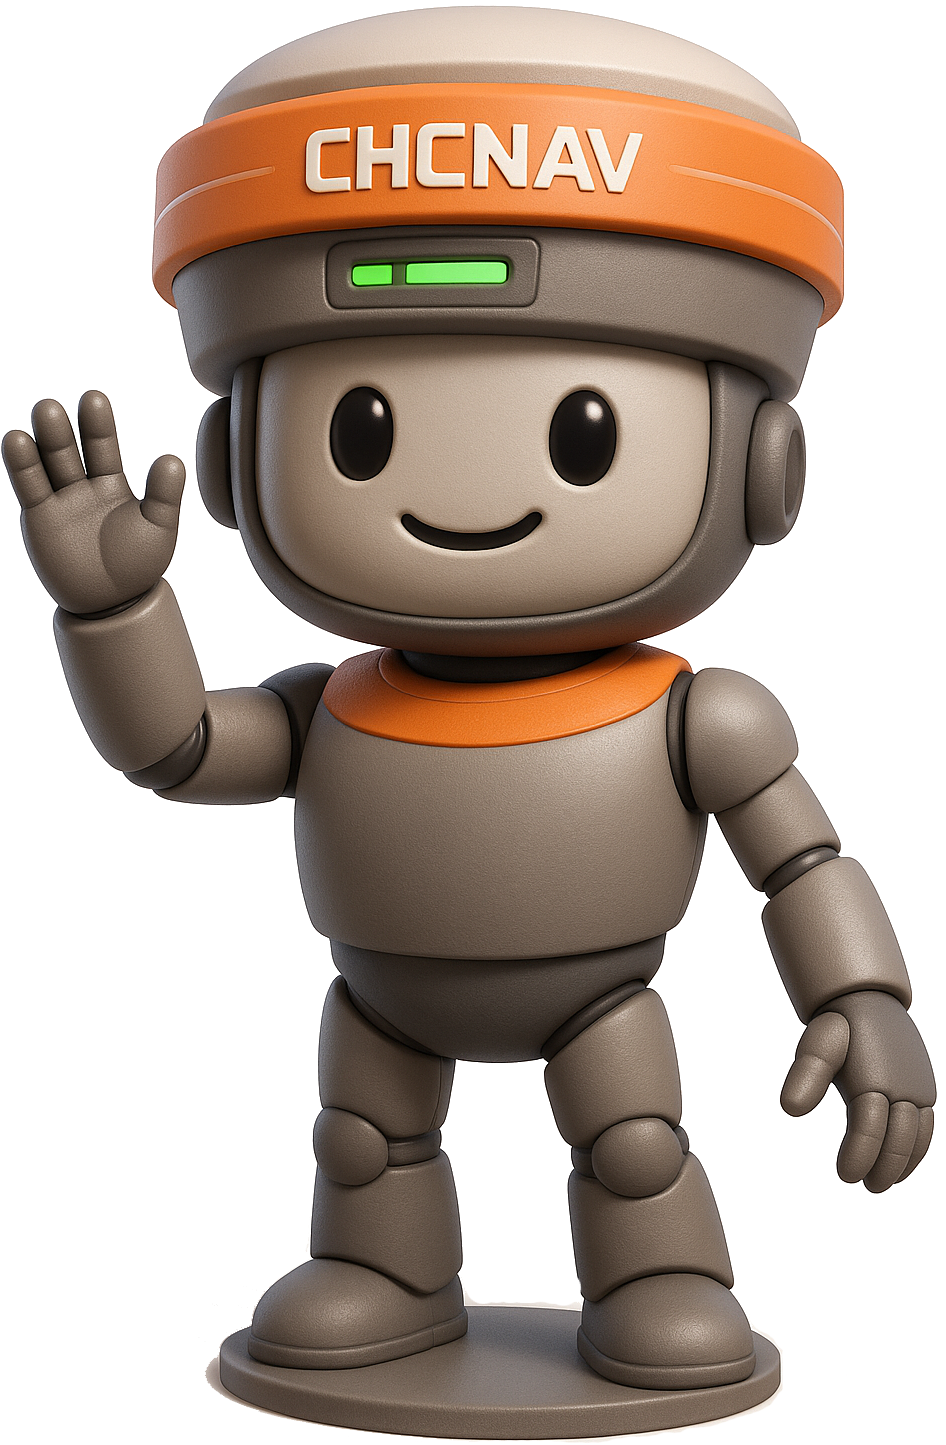
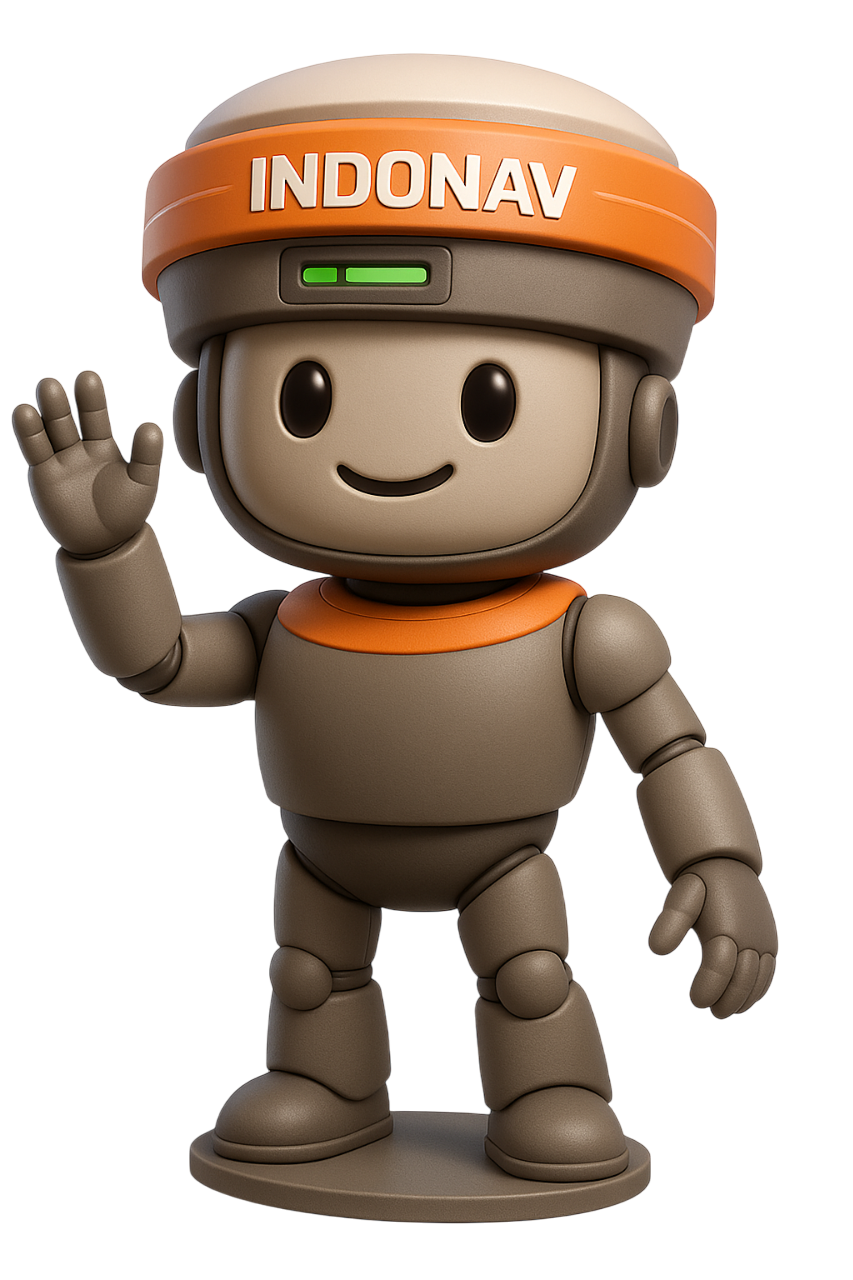
update actions: -Pemindahan tombol whatsapp disebelah tombol pemesanan -Halaman awal produk tampilkan kategori sebelum produk -Tulisan kepala robot diganti ke indonav -Slider partner diubah jadi 1

diff --git a/resources/css/app.css b/resources/css/app.css
@@ -39,13 +39,14 @@
   scrollbar-width: none; /* Hide scrollbar for Firefox */
 }
 
+.infinite-translate.reverse {
+  animation-direction: reverse;
+}
+
+
 .infinite-translate {
   animation: full-translate 20s linear infinite;
   display: flex;
-}
-
-.infinite-translate.reverse {
-  animation-direction: reverse;
 }
 
 .infinite-translate:hover {

diff --git a/resources/views/pages/index.blade.php b/resources/views/pages/index.blade.php
@@ -3,7 +3,6 @@
   $industry = App\Models\Industry::limit(5)->get();
   $products = App\Models\Product::orderByDesc('created_at')->limit(5)->get();
   $partners = App\Models\Partner::orderBy('order', 'asc')->get();
-  $chunks = $partners->chunk(5);
 @endphp
 
 @extends('layouts.app-v2', ['activePage' => 'home'])
@@ -119,32 +118,27 @@
     <div class="pb-10 md:pb-16 capitalize">
       <p class="text-3xl text-slate-800 font-medium text-center">our trusted partner</p>
     </div>
-    @foreach ($chunks as $index => $chunk)
-      @php
-        $shouldReverse = $index % 2 === 1;
-      @endphp
-      <div class="h-36 w-full overflow-hidden" id="slidable-content-{{ $index + 1 }}">
-        <div class="relative h-auto w-full">
-          <div class="absolute hidden md:block z-40 h-full w-24 bg-gradient-to-r from-white to-transparent"></div>
-          <ul class="infinite-translate flex h-full w-[200%] {{ $shouldReverse ? 'reverse' : '' }}">
-            @for ($i = 0; $i < 3; $i++)
-              @foreach ($chunk as $item)
-                <li
-                  class="flex w-1/6 md:w-1/6 flex-none items-center justify-center px-4 md:px-6 ring-inset hover:ring-2 ring-orange-600">
-                  <a href="{{ $item->url ?? '#' }}" target="_blank"
-                    class="flex items-center justify-center h-full w-full">
-                    <img class="h-10 sm:h-12 md:h-14 object-contain" src="{{ asset('storage/' . $item->image) }}"
-                      alt="{{ $item->title }}">
-                  </a>
-                </li>
-              @endforeach
-            @endfor
-          </ul>
-          <div class="absolute hidden md:block right-0 top-0 z-40 h-full w-24 bg-gradient-to-l from-white to-transparent">
-          </div>
+    <div class="h-36 w-full overflow-hidden" id="slidable-content">
+      <div class="relative h-auto w-full">
+        <div class="absolute hidden md:block z-40 h-full w-24 bg-gradient-to-r from-white to-transparent"></div>
+        <ul class="infinite-translate flex h-full w-[200%]">
+          @for ($i = 0; $i < 3  ; $i++)
+            {{-- Repeat to create seamless animation --}}
+            @foreach ($partners as $item)
+              <li
+                class="flex w-1/6 md:w-1/6 flex-none items-center justify-center px-4 md:px-6 ring-inset hover:ring-2 ring-orange-600">
+                <a href="{{ $item->url ?? '#' }}" target="_blank" class="flex items-center justify-center h-full w-full">
+                  <img class="h-10 sm:h-12 md:h-14 object-contain" src="{{ asset('storage/' . $item->image) }}"
+                    alt="{{ $i }} {{ $item->title }}">
+                </a>
+              </li>
+            @endforeach
+          @endfor
+        </ul>
+        <div class="absolute hidden md:block right-0 top-0 z-40 h-full w-24 bg-gradient-to-l from-white to-transparent">
         </div>
       </div>
-    @endforeach
+    </div>
   </div>
   <hr>
   <div class="max-w-screen-lg px-2 lg:px-0 mx-auto py-16 md:py-28 grid gap-8">
@@ -158,7 +152,8 @@
           <p class="text-lg font-medium text-slate-700">Ikuti kami</p>
         </div>
         <a href="{!! $sites['linkedin']?->url !!}" target="_blank">
-          <div class="py-1 border-b border-slate-300 hover:bg-orange-50 duration-200 flex w-full items-center justify-between cursor-pointer">
+          <div
+            class="py-1 border-b border-slate-300 hover:bg-orange-50 duration-200 flex w-full items-center justify-between cursor-pointer">
             <p class="text-base text-slate-700">Linkedin</p>
             <svg xmlns="http://www.w3.org/2000/svg" fill="none" viewBox="0 0 24 24" stroke-width="1.5"
               stroke="currentColor" class="w-4 h-4 text-orange-600">
@@ -167,7 +162,8 @@
           </div>
         </a>
         <a href="{!! $sites['instagram']?->url !!}" target="_blank">
-          <div class="py-1 border-b border-slate-300 hover:bg-orange-50 duration-200 flex w-full items-center justify-between cursor-pointer">
+          <div
+            class="py-1 border-b border-slate-300 hover:bg-orange-50 duration-200 flex w-full items-center justify-between cursor-pointer">
             <p class="text-base text-slate-700">Instagram</p>
             <svg xmlns="http://www.w3.org/2000/svg" fill="none" viewBox="0 0 24 24" stroke-width="1.5"
               stroke="currentColor" class="w-4 h-4 text-orange-600">

diff --git a/resources/views/pages/produk/index.blade.php b/resources/views/pages/produk/index.blade.php
@@ -25,39 +25,38 @@
 @section('content')
   <div class="bg-slate-100">
     <div class="max-w-screen-lg px-2 md:px-0 mx-auto py-16 space-y-4">
-      <p class="text-4xl text-orange-600 font-bold mb-10">Semua Produk</p>
-      <div class="border-y border-slate-300 py-3 mb-4 md:mb-6">
-        <ul class="flex flex-wrap gap-4 text-sm font-normal text-slate-700">
-          <li class="font-medium text-orange-600">Semua Produk</li>
-          @foreach ($industry as $item)
-            <li class="hover:text-orange-600"><a href="/produk/kategori/{{ $item->slug }}">
-                {{ $item->title }}</a></li>
-          @endforeach
-        </ul>
-      </div>
-      <div class="grid grid-cols-2 md:grid-cols-4 gap-4 md:gap-6">
-        @forelse ($products as $item)
-          <div class="bg-white grid justify-items-center gap-4 w-full p-4 hover:rounded-lg items-center">
-            <img src="{{ asset('storage/' . $item->image_product) }}" class="w-2/3" alt="{{ $item->title }}">
-            <p class="text-lg font-semibold tracking-wide text-slate-700 line-clamp-2">{{ $item->title }}</p>
-            <p class="text-base font-normal tracking-wide text-slate-600 text-center line-clamp-2">{{ $item->description }}</p>
-            <a href="/produk/{{ $item->slug }}"
-              class="w-fit border border-orange-600 text-orange-600 hover:text-white hover:bg-orange-600 duration-200 px-3 py-0.5 uppercase rounded-full">
-              <span class="text-sm font-medium">
-                Selengkapnya
-              </span>
-            </a>
+      <p class="text-4xl text-orange-600 font-bold mb-10">Jelajah Produk</p>
+      <div class="grid grid-cols-2 gap-6">
+        @foreach ($industry as $item)
+          <div class="flex h-full rounded border border-slate-300">
+            <div class="w-1/2">
+              @if ($item->media_type === 'video' && $item->embed_url)
+                <iframe class="min-h-56 w-full h-full" src="{{ $item->embed_url }}" title="YouTube video player"
+                  frameborder="0"
+                  allow="accelerometer; autoplay; clipboard-write; encrypted-media; gyroscope; picture-in-picture; web-share"
+                  referrerpolicy="strict-origin-when-cross-origin" allowfullscreen>
+                </iframe>
+              @elseif ($item->media_type === 'image' && $item->image)
+                <img class="min-h-56  w-full h-full object-cover" src="{{ asset('storage/' . $item->image) }}"
+                  alt="{{ $item->title }}">
+              @endif
+            </div>
+            <div class="w-1/2 p-2 space-y-2">
+              <p class="text-xl font-medium text-slate-800">{{ $item->title }}</p>
+              <a href="/produk/kategori/{{ $item->slug }}"
+                class="border-b-2 w-fit flex items-center gap-2 hover:gap-3 duration-200 text-slate-600 hover:text-slate-800">
+                <span>Jelajah Produk</span>
+                <svg xmlns="http://www.w3.org/2000/svg" class="w-5 h-5" viewBox="0 0 24 24" fill="none"
+                  stroke="currentColor" stroke-width="2" stroke-linecap="round" stroke-linejoin="round">
+                  <path stroke="none" d="M0 0h24v24H0z" fill="none" />
+                  <path d="M5 12l14 0" />
+                  <path d="M13 18l6 -6" />
+                  <path d="M13 6l6 6" />
+                </svg>
+              </a>
+            </div>
           </div>
-        @empty
-          <div
-            class="col-span-2 md:col-span-4 flex flex-col items-center justify-center text-center py-10 text-slate-600">
-            <p class="text-xl font-semibold">Produk belum tersedia</p>
-          </div>
-        @endforelse
-      </div>
-
-      <div class="">
-          {{ $products->links() }}
+        @endforeach
       </div>
     </div>
   </div>

diff --git a/resources/views/layouts/app-v2.blade.php b/resources/views/layouts/app-v2.blade.php
@@ -23,7 +23,7 @@
 
 <body class="w-full bg-slate-50 relative">
   {{-- Whatsapp me --}}
-  <a href="{!! $sites['wa-link']?->url !!}"
+  {{-- <a href="{!! $sites['wa-link']?->url !!}"
     class="fixed right-5 md:right-10 bottom-5 md:bottom-10 p-2 rounded-lg ring-1 hover:ring-2 duration-200 ring-white bg-green-600 cursor-pointer z-[55]"
     target="_blank">
     <svg xmlns="http://www.w3.org/2000/svg" width="24" height="24" viewBox="0 0 24 24" fill="none"
@@ -33,7 +33,7 @@
       <path d="M3 21l1.65 -3.8a9 9 0 1 1 3.4 2.9l-5.05 .9" />
       <path d="M9 10a.5 .5 0 0 0 1 0v-1a.5 .5 0 0 0 -1 0v1a5 5 0 0 0 5 5h1a.5 .5 0 0 0 0 -1h-1a.5 .5 0 0 0 0 1" />
     </svg>
-  </a>
+  </a> --}}
   <nav class="bg-white border-b border-slate-200  py-4 sticky top-0 z-50">
     <div class="max-w-screen-lg px-2 lg:px-0 mx-auto">
       <div class="flex justify-between items-center relative">
@@ -97,8 +97,19 @@
               </li>
             </ul>
             <div class="flex gap-2 mt-6">
-              <a href="/pemesanan" class="w-full bg-orange-500 px-3 py-1 rounded-full flex justify-center">
-                <span class="font-medium text-sm text-slate-100 text-center">Pemesanan</span>
+              <a href="/pemesanan" class="w-full bg-orange-500 px-3 py-1 rounded-full flex items-center justify-center">
+                <span class="font-medium text-sm text-slate-100 text-center">PEMESANAN</span>
+              </a>
+              <a href="{!! $sites['wa-link']?->url !!}" target="_blank"
+                class="flex-1 w-full hover:bg-slate-200 active:scale-95 p-1.5 rounded-full flex items-center px-4">
+                <svg viewBox="0 0 24 24" fill="none" stroke="currentColor" stroke-width="2" stroke-linecap="round"
+                  stroke-linejoin="round" class="h-7 w-7 text-green-600">
+                  <path stroke="none" d="M0 0h24v24H0z" fill="none" />
+                  <path d="M3 21l1.65 -3.8a9 9 0 1 1 3.4 2.9l-5.05 .9" />
+                  <path
+                    d="M9 10a.5 .5 0 0 0 1 0v-1a.5 .5 0 0 0 -1 0v1a5 5 0 0 0 5 5h1a.5 .5 0 0 0 0 -1h-1a.5 .5 0 0 0 0 1" />
+                </svg>
+                <span>Whatsapp</span>
               </a>
             </div>
 
@@ -106,9 +117,19 @@
         </div>
 
         {{-- CTA --}}
-        <div class="hidden md:flex items-center gap-4">
-          <a href="/pemesanan" class="bg-orange-500 px-3 py-1 rounded-full">
-            <span class="font-medium text-sm text-slate-100">Pemesanan</span>
+        <div class="hidden md:flex items-center gap-1">
+          <a href="/pemesanan" class="bg-orange-500 px-4 py-1 rounded-full">
+            <span class="font-medium text-sm text-slate-100">PEMESANAN</span>
+          </a>
+          <a href="{!! $sites['wa-link']?->url !!}" target="_blank"
+            class="w-full hover:bg-slate-200 active:scale-95 p-1.5 rounded-full">
+            <svg viewBox="0 0 24 24" fill="none" stroke="currentColor" stroke-width="2" stroke-linecap="round"
+              stroke-linejoin="round" class="h-7 w-7 text-green-600">
+              <path stroke="none" d="M0 0h24v24H0z" fill="none" />
+              <path d="M3 21l1.65 -3.8a9 9 0 1 1 3.4 2.9l-5.05 .9" />
+              <path
+                d="M9 10a.5 .5 0 0 0 1 0v-1a.5 .5 0 0 0 -1 0v1a5 5 0 0 0 5 5h1a.5 .5 0 0 0 0 -1h-1a.5 .5 0 0 0 0 1" />
+            </svg>
           </a>
         </div>
       </div>

diff --git a/resources/views/pages/produk/kategori/[slug].blade.php b/resources/views/pages/produk/kategori/[slug].blade.php
@@ -31,7 +31,7 @@
       <div class="border-y border-slate-300 py-3 mb-4 md:mb-6">
         <ul class="flex flex-wrap gap-4 text-sm font-normal text-slate-700">
           <li class="hover:underline underline-offset-2">
-            <a href="/produk">Semua Produk</a>
+            <a href="/produk">Semua Kategori</a>
           </li>
           @foreach ($industry as $item)
             <li class="hover:underline underline-offset-2">

diff --git a/resources/views/pages/pemesanan.blade.php b/resources/views/pages/pemesanan.blade.php
@@ -43,7 +43,7 @@
             </div>
           @endif
         </div>
-        <img src="{{ asset('img/doc-robot.png') }}" class="w-1/3 h-auto ml-auto" alt="">
+        <img src="{{ asset('img/pemesanan.png') }}" class="w-1/3 h-auto ml-auto" alt="">
       </div>
       <form class="grid gap-4 border rounded-xl p-4 w-full md:w-1/2" action="{{ route('tickets.store') }}" method="post">
         @csrf

diff --git a/README.md b/README.md
@@ -3,3 +3,10 @@
 ## About Indonav
 
 INDONAV adalah dealer resmi CHCNAV untuk wilayah Indonesia. Kami berkomitmen untuk memberikan dukungan dan pelayanan terbaik kepada setiap mitra dan pengguna CHCNAV di seluruh Indonesia.
+
+## Revisi
+
+[✅] Pemindahan tombol whatsapp disebelah tombol pemesanan
+- Halaman awal produk tampilkan kategori sebelum produk
+- Tulisan kepala robot diganti ke indonav
+- Slider partner diubah jadi 1
